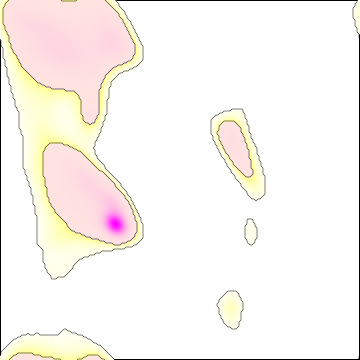
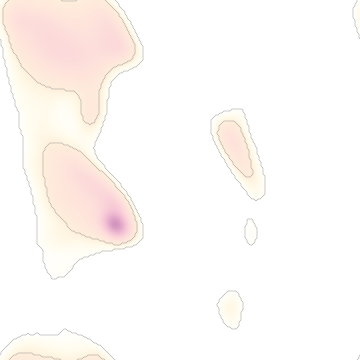
Gradient for Ramachandran plot
Make gradient colouring for Ramachandran plot (background images for
top5000 only).
Isolines in light grey and no more black outline of the background
image.
Sans 9 font for all.

diff --git a/src/rama_plot.cc b/src/rama_plot.cc
@@ -336,9 +336,7 @@ coot::rama_plot::init_internal(const std::string &mol_name,
 
 #ifdef HAVE_GOOCANVAS
 
-   // or just use?!
-   // fixed_font_str = "Sans 9"
-   fixed_font_str = coot::get_fixed_font();
+   fixed_font_str = "Sans 9";
 
    dragging = FALSE;
    drag_x = 0;
@@ -770,7 +768,10 @@ coot::rama_plot::setup_background(bool blocks, bool isolines, bool print_image) 
 // in c++11 array<int, 5> fillarr(int arr[])
 guint
 coot::rama_plot::get_intermediate_bg_colour(guint start_colour[4],
-guint end_colour[4], float prob_min, float prob_max, float probability) {
+                                            guint end_colour[4],
+                                            float prob_min, float prob_max,
+                                            float probability,
+                                            int quad_channel) {
 
    static guint new_colour[4];
    float x;
@@ -779,8 +780,12 @@ guint end_colour[4], float prob_min, float prob_max, float probability) {
    x = (probability - prob_min) / (prob_max - prob_min);
 
    for (unsigned int i=0; i<4; i++) {
-      new_colour[i] = (int)((1. - x) * (float)start_colour[i] +
-                            x * (float)end_colour[i]);
+      if (i == quad_channel)
+         new_colour[i] = (int)((1. - sqrt(x)) * (float)start_colour[i] +
+                               sqrt(x) * (float)end_colour[i]);
+      else
+         new_colour[i] = (int)((1. - x) * (float)start_colour[i] +
+                               x * (float)end_colour[i]);
    }
 
    // do some byte shift
@@ -836,6 +841,7 @@ coot::rama_plot::make_background(const clipper::Ramachandran rama_type,
          d2step = clipper::Util::d2rad(step);
          doit = 0;
 
+         guint bg_colour_start [4] = {255, 240, 220, 255};
          if ( rama_type.favored(x,y) ) {
             colour = "grey";
             colour = "red";
@@ -846,13 +852,13 @@ coot::rama_plot::make_background(const clipper::Ramachandran rama_type,
             colour = "LightSalmon";
             colour = "MistyRose";
 
-            guint bg_colour_start [4] = {255, 228, 225, 255}; // misty rose
-            guint bg_colour_end [4] = {255, 0, 255, 255};
+            guint bg_colour_end [4] = {210, 150, 190, 255};
 
             bg_colour_rgba = get_intermediate_bg_colour(bg_colour_start, bg_colour_end,
                                                         rama_threshold_preferred,
                                                         max_prob,
-                                                        rama_type.probability(x,y));
+                                                        rama_type.probability(x,y),
+                                                        1);
 
             item = goo_canvas_rect_new(bg_group,
                                        i+0.0,
@@ -875,13 +881,14 @@ coot::rama_plot::make_background(const clipper::Ramachandran rama_type,
                colour = "LightYellow2";
 
 //               guint bg_colour_start2 [4] = {255, 255, 153, 255}; // LightYellow2
-               guint bg_colour_start2 [4] = {255, 255, 240, 255};
-               guint bg_colour_end2 [4] = {255, 255, 140, 255};
+               guint bg_colour_start2 [4] = {255, 255, 255, 255};
+               //guint bg_colour_end2 [4] = bg_colour_start;
 
-               bg_colour_rgba = get_intermediate_bg_colour(bg_colour_start2, bg_colour_end2,
+               bg_colour_rgba = get_intermediate_bg_colour(bg_colour_start2, bg_colour_start,
                                                            rama_threshold_allowed,
                                                            rama_threshold_preferred,
-                                                           rama_type.probability(x,y));
+                                                           rama_type.probability(x,y),
+                                                           2);
 
                item = goo_canvas_rect_new(bg_group,
                                           i+0.0,
@@ -1188,7 +1195,8 @@ coot::rama_plot::make_isolines(const clipper::Ramachandran rama_type, GooCanvasI
             item = goo_canvas_polyline_new_line(bg_group,
                                                 x1,y1,
                                                 x2,y2,
-                                                "stroke-color", "black",
+//                                                "stroke-color", "black",
+                                                "stroke-color", "grey60",
                                                 "line-width", 0.5,
 				NULL);
          }
@@ -1277,12 +1285,14 @@ coot::rama_plot::basic_white_underlay() {
    GooCanvasItem *item;
 
    float corner;
+
    if (psi_axis_mode == PSI_CLASSIC) {
       corner = -180.0;
    } else {
       corner = -240.0;
    }
-   // FIMXE:: think if not an outline on top later
+   // we dont do an outline around the white canvas
+   // but make a box later
    item = goo_canvas_rect_new(root,
             -180.0,
             corner,
@@ -1290,6 +1300,7 @@ coot::rama_plot::basic_white_underlay() {
             360.0,
             "fill-color", "white",
             "stroke-color", "black",
+            "line-width", 0.0,
             NULL);  
    // 12/12/18 was grey97
    // orig grey 90; grey 100 is white; 95 was good
@@ -1337,6 +1348,8 @@ coot::rama_plot::black_border() {
    border_group = goo_canvas_group_new(root, NULL);
 
    float psi_start, psi_end;
+   // now we make the black box around the canvas.
+   float line_thickness = 2.0;
    
    // maybe make these global!?
    if (psi_axis_mode == PSI_CLASSIC) {
@@ -1363,7 +1376,7 @@ coot::rama_plot::black_border() {
                                      TRUE, 0,
                                      "points", points,
                                      "stroke-color", "black",
-                                     "line-width", 2.0,
+                                     "line-width", line_thickness,
             NULL);
       goo_canvas_points_unref (points);
 

diff --git a/src/dynarama-main.cc b/src/dynarama-main.cc
@@ -285,6 +285,7 @@ main(int argc, char *argv[]) {
          do_help = true;
          break;
 
+      // This is used to make background images
       case 'x':
          print_help(argv[0]);
          n_used_args++;
